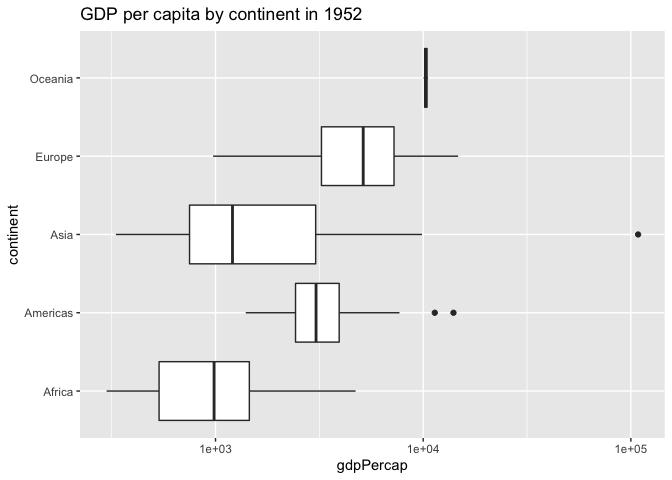
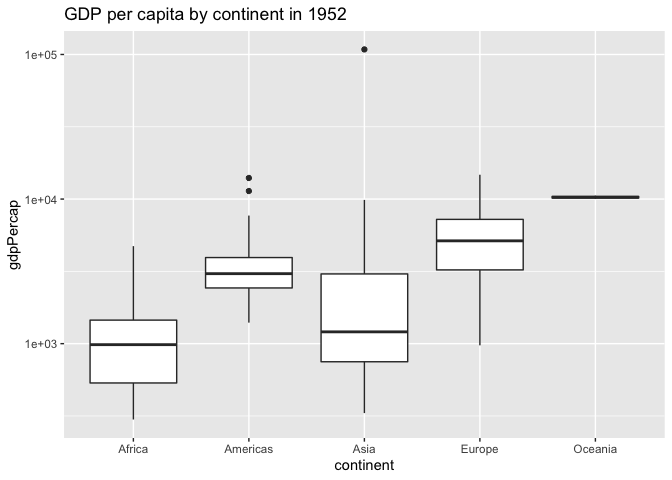
Add Q5 and tidy the rest of c04-gapminder

diff --git a/challenges/c04-gapminder-assignment.md b/challenges/c04-gapminder-assignment.md
@@ -190,7 +190,6 @@ your challenges and attempt to produce the most informative visual you
 can.
 
 ``` r
-## TASK: Create a visual of gdpPercap vs continent
 year_min_df <- filter(gapminder, year == year_min)
 glimpse(year_min_df)
 ```
@@ -209,7 +208,6 @@ year_min_df %>%
   ggplot(mapping = aes(y = gdpPercap, x = continent)) +
   geom_boxplot() +
   labs(title = "GDP per capita by continent in 1952") +
-  coord_flip() +
   scale_y_log10()
 ```
 
@@ -237,18 +235,51 @@ year_min_df %>%
     total count per continent. Then, I decided to use a boxplot to see
     trends within each `continent`. This worked better, but the spread
     of data across countries and continents made certain boxplots
-    squished. To stretch them out a bit, I applied `coord_flip()`, but
-    it was still squished, so I log-scaled `gdpPercap`.
+    squished. To stretch them out a bit, I log-scaled `gdpPercap`.
 
 **q3** You should have found at least three outliers in q2. Identify
 those outliers (figure out which countries they are).
+
+``` r
+americas_outliers_df <- filter(year_min_df, gdpPercap > 1.000e+04, continent == 'Americas')
+glimpse(americas_outliers_df)
+```
+
+    ## Rows: 2
+    ## Columns: 6
+    ## $ country   <fct> Canada, United States
+    ## $ continent <fct> Americas, Americas
+    ## $ year      <int> 1952, 1952
+    ## $ lifeExp   <dbl> 68.75, 68.44
+    ## $ pop       <int> 14785584, 157553000
+    ## $ gdpPercap <dbl> 11367.16, 13990.48
+
+``` r
+asia_outliers_df <- filter(year_min_df, gdpPercap > 1.000e+05, continent == 'Asia')
+glimpse(asia_outliers_df)
+```
+
+    ## Rows: 1
+    ## Columns: 6
+    ## $ country   <fct> Kuwait
+    ## $ continent <fct> Asia
+    ## $ year      <int> 1952
+    ## $ lifeExp   <dbl> 55.565
+    ## $ pop       <int> 160000
+    ## $ gdpPercap <dbl> 108382.4
 
 **Observations**:
 
 I initially thought of using the plot to identify the outliers via [this
 StackOverflow
 post](https://stackoverflow.com/questions/33524669/labeling-outliers-of-boxplots-in-r),
-but then I realized I could just filter the data based on the q2 plot.
+but then I realized I could just filter the data based on data gleaned
+from the q2 plot of GDP per capita by continent in 1952.
+
+  - The outliers are Canada, United States, and Kuwait
+
+NOTE: I probably could’ve just swapped x and y instead of using
+`coord_flip()`, but alas
 
 **q4** Create a plot similar to yours from q2 studying both `year_min`
 and `year_max`. Find a way to highlight the outliers from q3 on your
@@ -258,12 +289,57 @@ plot. Compare the patterns between `year_min` and `year_max`.
 variables; think about using different aesthetics or facets.
 
 ``` r
-## TASK: Create a visual of gdpPercap vs continent
+year_extremes_df <- filter(gapminder, year == year_min | year == year_max)
+glimpse(year_extremes_df)
 ```
 
-**Observations**:
+    ## Rows: 284
+    ## Columns: 6
+    ## $ country   <fct> Afghanistan, Afghanistan, Albania, Albania, Algeria, Algeri…
+    ## $ continent <fct> Asia, Asia, Europe, Europe, Africa, Africa, Africa, Africa,…
+    ## $ year      <int> 1952, 2007, 1952, 2007, 1952, 2007, 1952, 2007, 1952, 2007,…
+    ## $ lifeExp   <dbl> 28.801, 43.828, 55.230, 76.423, 43.077, 72.301, 30.015, 42.…
+    ## $ pop       <int> 8425333, 31889923, 1282697, 3600523, 9279525, 33333216, 423…
+    ## $ gdpPercap <dbl> 779.4453, 974.5803, 1601.0561, 5937.0295, 2449.0082, 6223.3…
 
-  - Write your observations here
+``` r
+year_extremes_df %>%
+  ggplot(mapping = aes(y = gdpPercap, x = continent, color = factor(year))) +
+  geom_boxplot() +
+  facet_grid(~ year) +
+  stat_summary(
+    fun = median,
+    geom = "line",
+    aes(group = year, color = factor(year)),
+    lwd = 1,
+    position = position_dodge(width = .75)
+  ) +
+  scale_y_log10() +
+  labs(title = "GDP per capita by continent")
+```
+
+![](c04-gapminder-assignment_files/figure-gfm/q4-task-1.png)<!-- -->
+
+**Observations**: - GDP per capita by continent (from highest to lowest)
+is the same for the earliest and latest years - Oceania, Europe,
+Americas, Asia, Africa - The spread of GDP per capita across countries
+for each continent has increased between 1952 and 2007 - Both years have
+three outliers - 2007 outliers are all in Americas: Haiti, Canada, and
+United States
+
+``` r
+americas_latest_outliers_df <- filter(year_extremes_df, gdpPercap > 2.000e+04 | gdpPercap < 2.500e+03 , continent == 'Americas', year == 2007)
+glimpse(americas_latest_outliers_df)
+```
+
+    ## Rows: 3
+    ## Columns: 6
+    ## $ country   <fct> Canada, Haiti, United States
+    ## $ continent <fct> Americas, Americas, Americas
+    ## $ year      <int> 2007, 2007, 2007
+    ## $ lifeExp   <dbl> 80.653, 60.916, 78.242
+    ## $ pop       <int> 33390141, 8502814, 301139947
+    ## $ gdpPercap <dbl> 36319.235, 1201.637, 42951.653
 
 # Your Own EDA
 
@@ -278,8 +354,32 @@ the relationship between variables, or something else entirely.
 to pose new questions about the data.
 
 ``` r
-## TASK: Your first graph
+year_extremes_df %>%
+  ggplot(mapping = aes(y = pop, x = continent, color = factor(year))) +
+  geom_boxplot() +
+  facet_grid(~ year) +
+  stat_summary(
+    fun = median,
+    geom = "line",
+    aes(group = year, color = factor(year)),
+    lwd = 1,
+    position = position_dodge(width = .75)
+  ) +
+  scale_y_log10() +
+  labs(title = "Population by continent")
 ```
+
+![](c04-gapminder-assignment_files/figure-gfm/q5-task1-1.png)<!-- -->
+
+While going through EDA for GDP per capita, I was curious about how
+population might impact GDP, so first, I thought I’d take a look at
+population by continent for the earliest and latest years, 1952 and
+2007.
+
+**Observations:**
+
+  - 
+<!-- end list -->
 
 ``` r
 ## TASK: Your second graph
